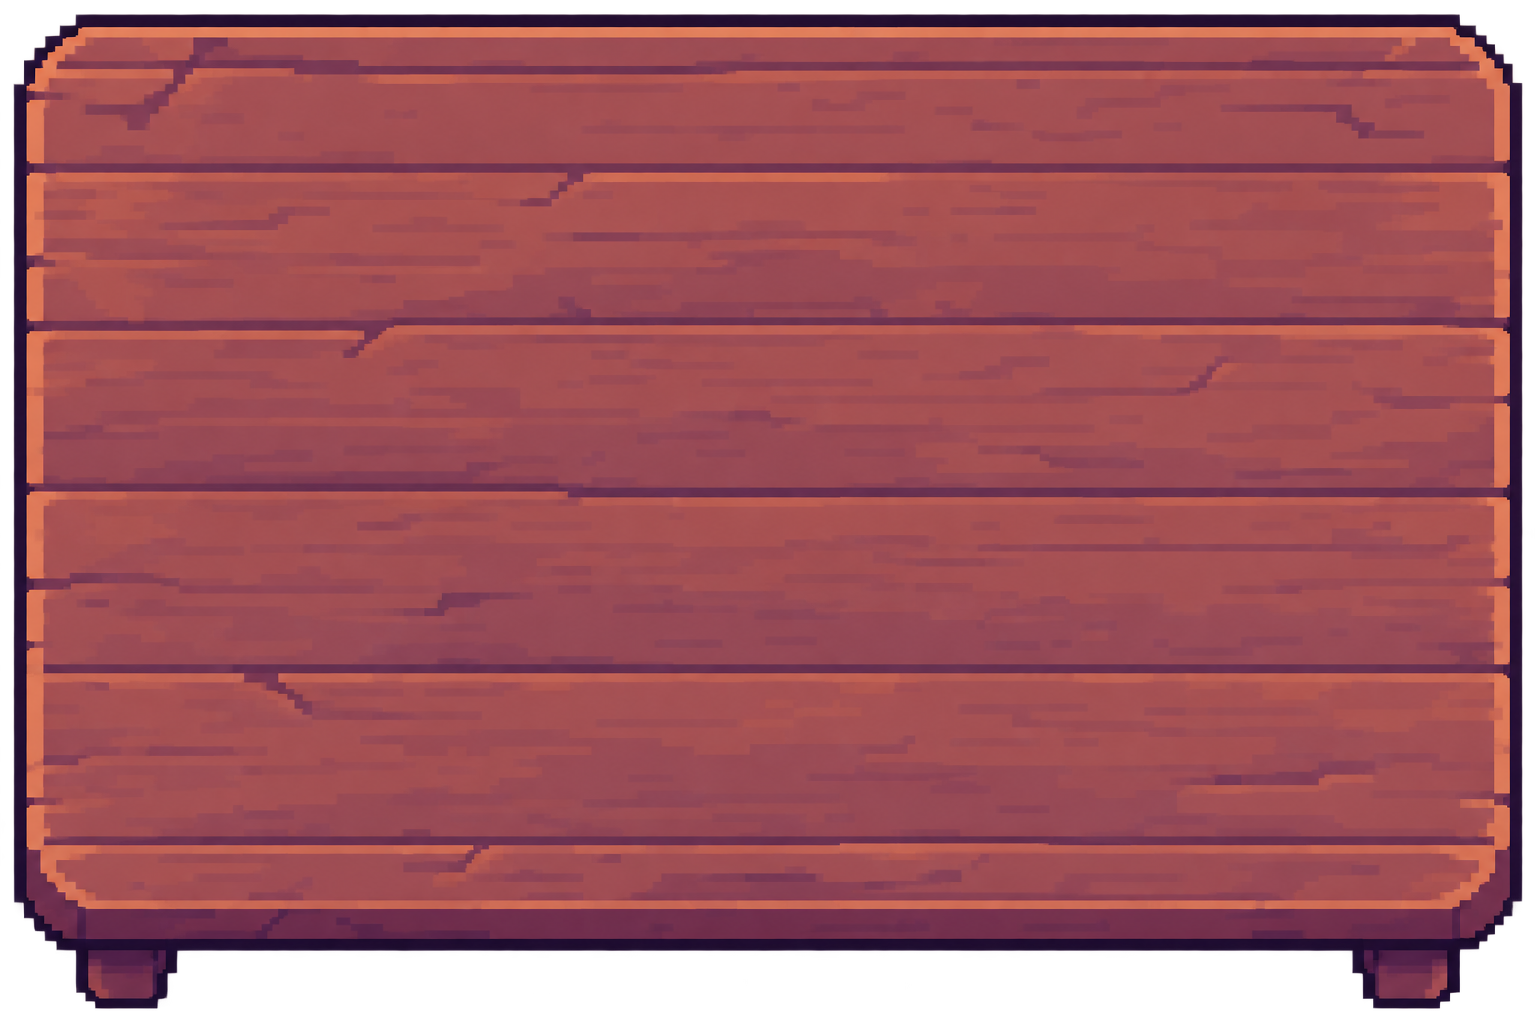
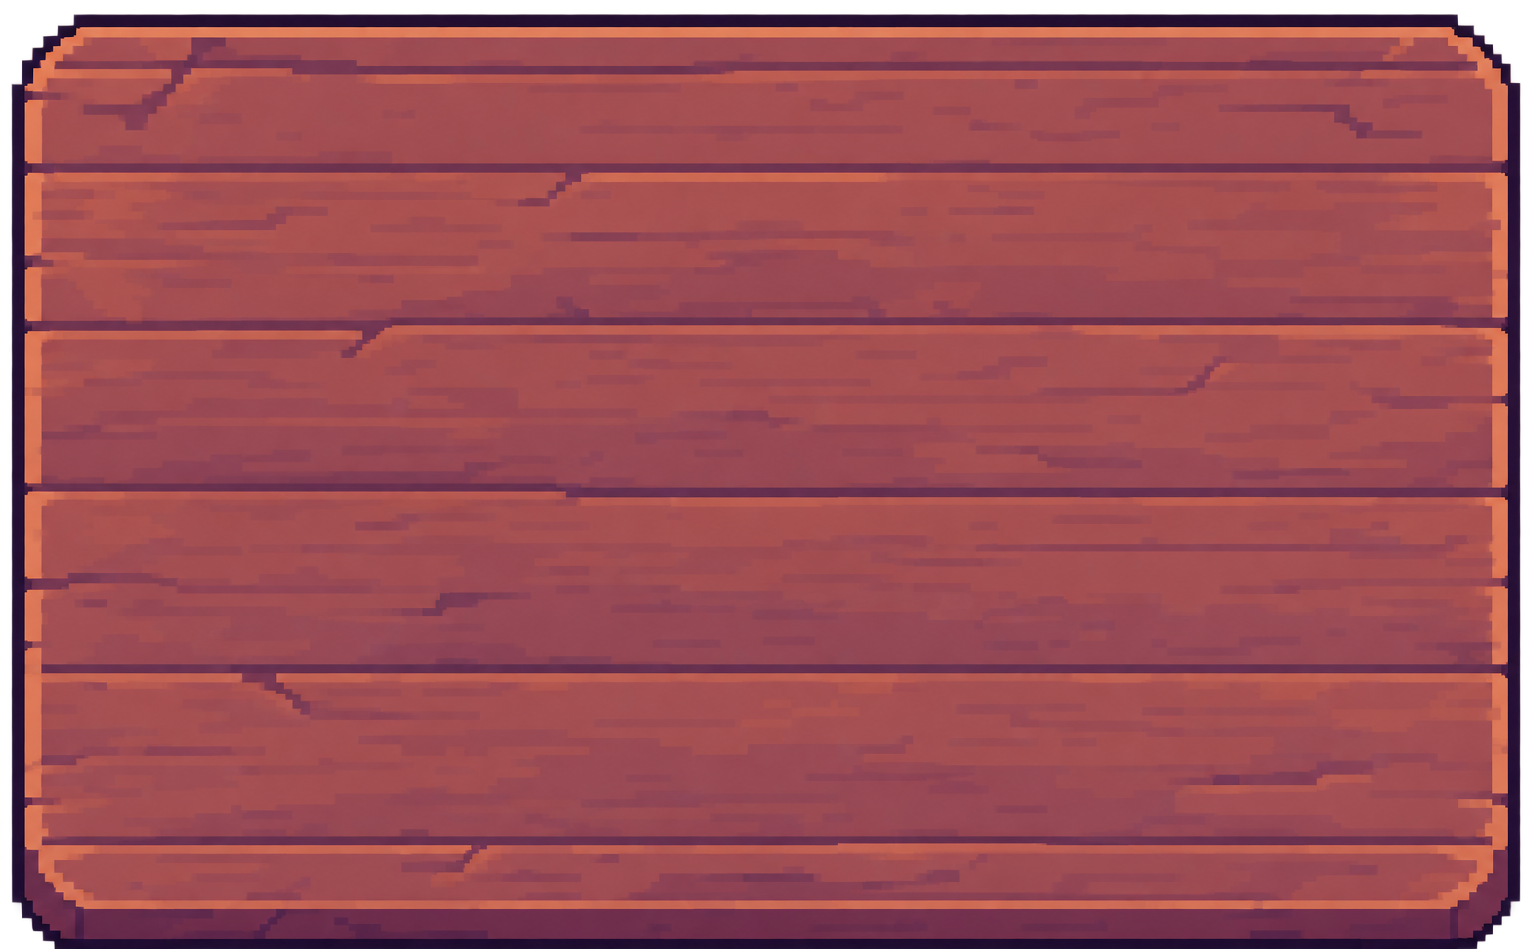
fixed the card align

diff --git a/style.css b/style.css
@@ -281,7 +281,7 @@ p {
     position: fixed;
     left: 2%;
     top: 50%;
-    transform: translateY(-50%);
+    transform: translateY(-57%);
 
     width: 58%;
     max-width: 850px;
@@ -307,40 +307,38 @@ body.game-started .game-container {
     display: flex;
 }
 
-/* Arrange cards inside the wooden table */
+/* Card arrangement inside the wooden table */
 .card-grid {
     display: grid;
 
-    grid-template-columns: repeat(4, 120px);
+    grid-template-columns: repeat(4, 170px);
     grid-template-rows: repeat(3, 160px);
 
-    gap: 12px;
+    column-gap: 18px;
+    row-gap: 18px;
 
     justify-content: center;
     align-content: center;
+    transform: translateY(-1px);
+    transform: translateX(20px);
 }
 
 /* Individual cards */
 .card {
     width: 120px;
     height: 160px;
+
     box-sizing: border-box;
 
-    background-color: transparent;
     background-image: url("mystic-cat-card-back.png");
     background-size: 100% 100%;
     background-position: center;
     background-repeat: no-repeat;
 
+    background-color: transparent;
     border: none;
     box-shadow: none;
 
-    display: flex;
-    justify-content: center;
-    align-items: center;
-
-    font-size: 50px;
-    color: #211b3c;
     cursor: pointer;
 }
 
@@ -505,11 +503,5 @@ body.game-started p {
     transform: scale(1.05);
 }
 
-/* Card Back Design */
-.card {
-    background-image: url("mystic-cat-card-back.png");
-    background-size: cover;
-    background-position: center;
-    background-repeat: no-repeat;
-}
+
 
